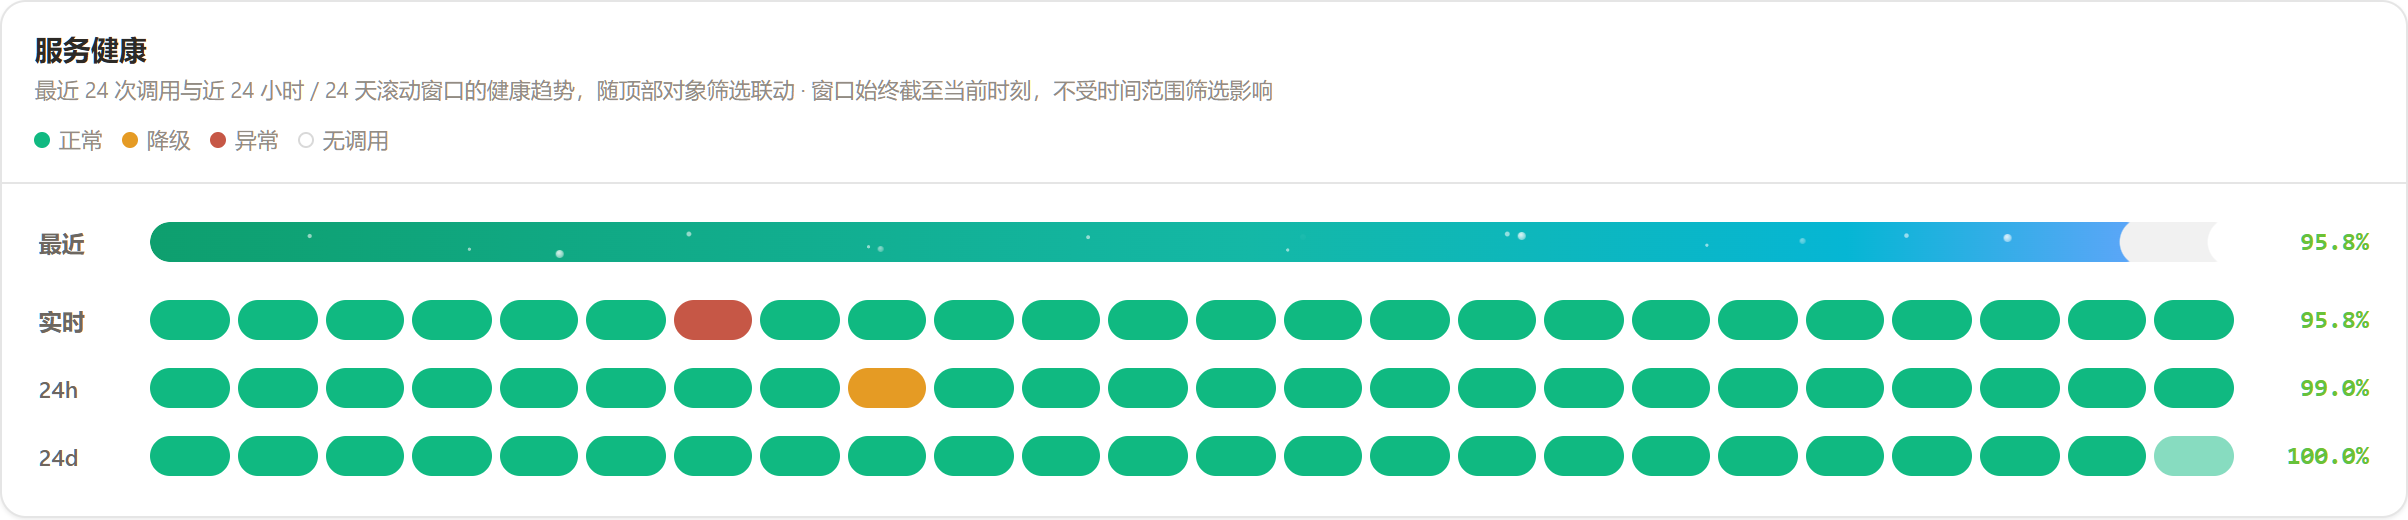
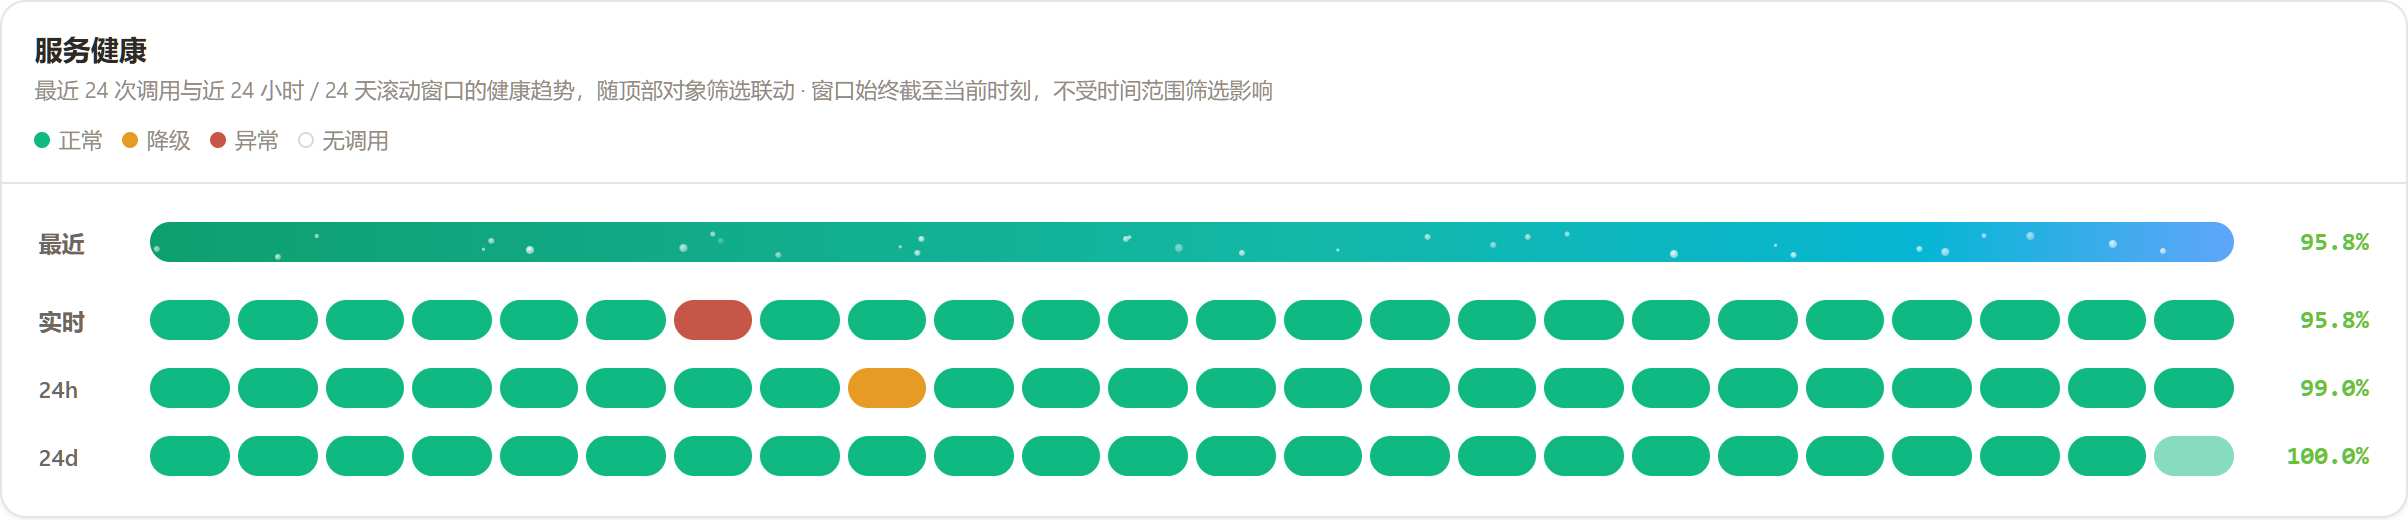
Add per-status health capsule motion, bump to v0.3.6

Changed region(s): [[0.8409, 0.4, 0.9344, 0.5231], [0.6229, 0.4308, 0.6541, 0.4615]]

diff --git a/internal/plugin/web/dashboard.html b/internal/plugin/web/dashboard.html
@@ -310,6 +310,17 @@ html[data-i18n-pending] #appView,html[data-i18n-pending] #authView{visibility:hi
   .health-fill b:nth-of-type(29){right:89.5%;top:59.9%;width:3px;height:3px;animation-delay:.15s;animation-duration:3.6s}
   .health-fill b:nth-of-type(30){right:94.5%;top:29.3%;width:3px;height:3px;animation-delay:2.55s;animation-duration:3.2s}
   @keyframes hp-flow{0%{transform:translateX(26px);opacity:0}6%{opacity:.95}75%{opacity:.55}100%{transform:translateX(-260px);opacity:0}}
+  /* Per-status capsule motion: traffic thins and slows as success rate drops.
+     Must stay after the nth-of-type rules above; these selectors tie on specificity and win on source order. */
+  .health-fill.is-warn b{background:radial-gradient(circle at 40% 35%,rgba(80,48,5,.95),rgba(80,48,5,.35));animation-name:hp-flow;animation-duration:6.8s;animation-timing-function:linear;animation-iteration-count:infinite}
+  .health-fill.is-warn b:nth-of-type(2n){display:none}
+  .health-fill.is-warn i{opacity:.5;background-image:radial-gradient(circle 1.3px at 8% 35%,#503005 60%,transparent),radial-gradient(circle 1px at 16% 68%,#503005 60%,transparent),radial-gradient(circle 1.5px at 27% 30%,#503005 60%,transparent),radial-gradient(circle 1px at 36% 62%,#503005 60%,transparent),radial-gradient(circle 1.2px at 47% 38%,#503005 60%,transparent),radial-gradient(circle 1px at 57% 70%,#503005 60%,transparent),radial-gradient(circle 1.5px at 68% 30%,#503005 60%,transparent),radial-gradient(circle 1px at 78% 58%,#503005 60%,transparent),radial-gradient(circle 1.4px at 88% 34%,#503005 60%,transparent)}
+  .health-fill.is-bad b{display:none;background:radial-gradient(circle at 40% 35%,rgba(74,14,6,.95),rgba(74,14,6,.4));animation-name:hp-flow;animation-duration:9.6s;animation-timing-function:linear;animation-iteration-count:infinite}
+  .health-fill.is-bad b:nth-of-type(4n+1){display:block}
+  .health-fill.is-bad i{opacity:.4;background-image:radial-gradient(circle 1.3px at 8% 35%,#4a0e06 60%,transparent),radial-gradient(circle 1px at 16% 68%,#4a0e06 60%,transparent),radial-gradient(circle 1.5px at 27% 30%,#4a0e06 60%,transparent),radial-gradient(circle 1px at 36% 62%,#4a0e06 60%,transparent),radial-gradient(circle 1.2px at 47% 38%,#4a0e06 60%,transparent),radial-gradient(circle 1px at 57% 70%,#4a0e06 60%,transparent),radial-gradient(circle 1.5px at 68% 30%,#4a0e06 60%,transparent),radial-gradient(circle 1px at 78% 58%,#4a0e06 60%,transparent),radial-gradient(circle 1.4px at 88% 34%,#4a0e06 60%,transparent)}
+  .health-fill.is-bad{animation:hp-breath 3.2s ease-in-out infinite}
+  .health-fill.is-empty i,.health-fill.is-empty b{display:none}
+  @keyframes hp-breath{0%,100%{filter:brightness(1)}50%{filter:brightness(1.22)}}
   .health-legend{display:flex;align-items:center;gap:10px;font-size:11px;color:var(--text-tertiary);flex-wrap:wrap;margin-top:8px}
 .health-legend-item{display:inline-flex;align-items:center;gap:4px}
 .health-legend-dot{width:8px;height:8px;border-radius:50%;display:inline-block}

diff --git a/internal/plugin/lifecycle.go b/internal/plugin/lifecycle.go
@@ -18,7 +18,7 @@ import (
 
 // version is set at build time with:
 // -X github.com/Pet-Max/cpa-plugin-tokens-statistic/internal/plugin.version=<version>
-var version = "0.3.5"
+var version = "0.3.6"
 
 // maxSupportedRPCSchema is intentionally independent from the SDK's latest
 // schema. Future hosts may negotiate down to this verified contract without

diff --git a/README_EN.md b/README_EN.md
@@ -106,7 +106,7 @@ Or call go build directly (Linux amd64 shown):
 CGO_ENABLED=1 GOOS=linux GOARCH=amd64 \
   CC="zig cc -target x86_64-linux-gnu" \
   go build -buildmode=c-shared -trimpath -buildvcs=false \
-  -ldflags="-s -w -X github.com/Pet-Max/cpa-plugin-tokens-statistic/internal/plugin.version=v0.3.5" \
+  -ldflags="-s -w -X github.com/Pet-Max/cpa-plugin-tokens-statistic/internal/plugin.version=v0.3.6" \
   -o tokens-statistic.so .
 ```
 
@@ -114,7 +114,7 @@ Artifacts:
 
 - Raw dynamic libraries land in `dist/`;
 - Store-conformant release packages (`tokens-statistic_<version>_<platform>.zip` + `checksums.txt`) land in `dist/release/v<version>/`, matching the assets CI publishes on releases;
-- Override the version with `VERSION`, e.g. `VERSION=v0.3.5 bash scripts/build-linux-amd64.sh`.
+- Override the version with `VERSION`, e.g. `VERSION=v0.3.6 bash scripts/build-linux-amd64.sh`.
 
 Tests:
 

diff --git a/README.md b/README.md
@@ -114,7 +114,7 @@ plugins:
 CGO_ENABLED=1 GOOS=linux GOARCH=amd64 \
   CC="zig cc -target x86_64-linux-gnu" \
   go build -buildmode=c-shared -trimpath -buildvcs=false \
-  -ldflags="-s -w -X github.com/Pet-Max/cpa-plugin-tokens-statistic/internal/plugin.version=v0.3.5" \
+  -ldflags="-s -w -X github.com/Pet-Max/cpa-plugin-tokens-statistic/internal/plugin.version=v0.3.6" \
   -o tokens-statistic.so .
 ```
 
@@ -122,7 +122,7 @@ CGO_ENABLED=1 GOOS=linux GOARCH=amd64 \
 
 - 原始动态库输出到 `dist/`；
 - 商店规格发布包（`tokens-statistic_<版本>_<平台>.zip` + `checksums.txt`）统一输出到 `dist/release/v<版本>/`，与 CI 发行的 Release 资产同规格；
-- 版本通过 `VERSION` 覆盖，例如 `VERSION=v0.3.5 bash scripts/build-linux-amd64.sh`。
+- 版本通过 `VERSION` 覆盖，例如 `VERSION=v0.3.6 bash scripts/build-linux-amd64.sh`。
 
 测试：
 
